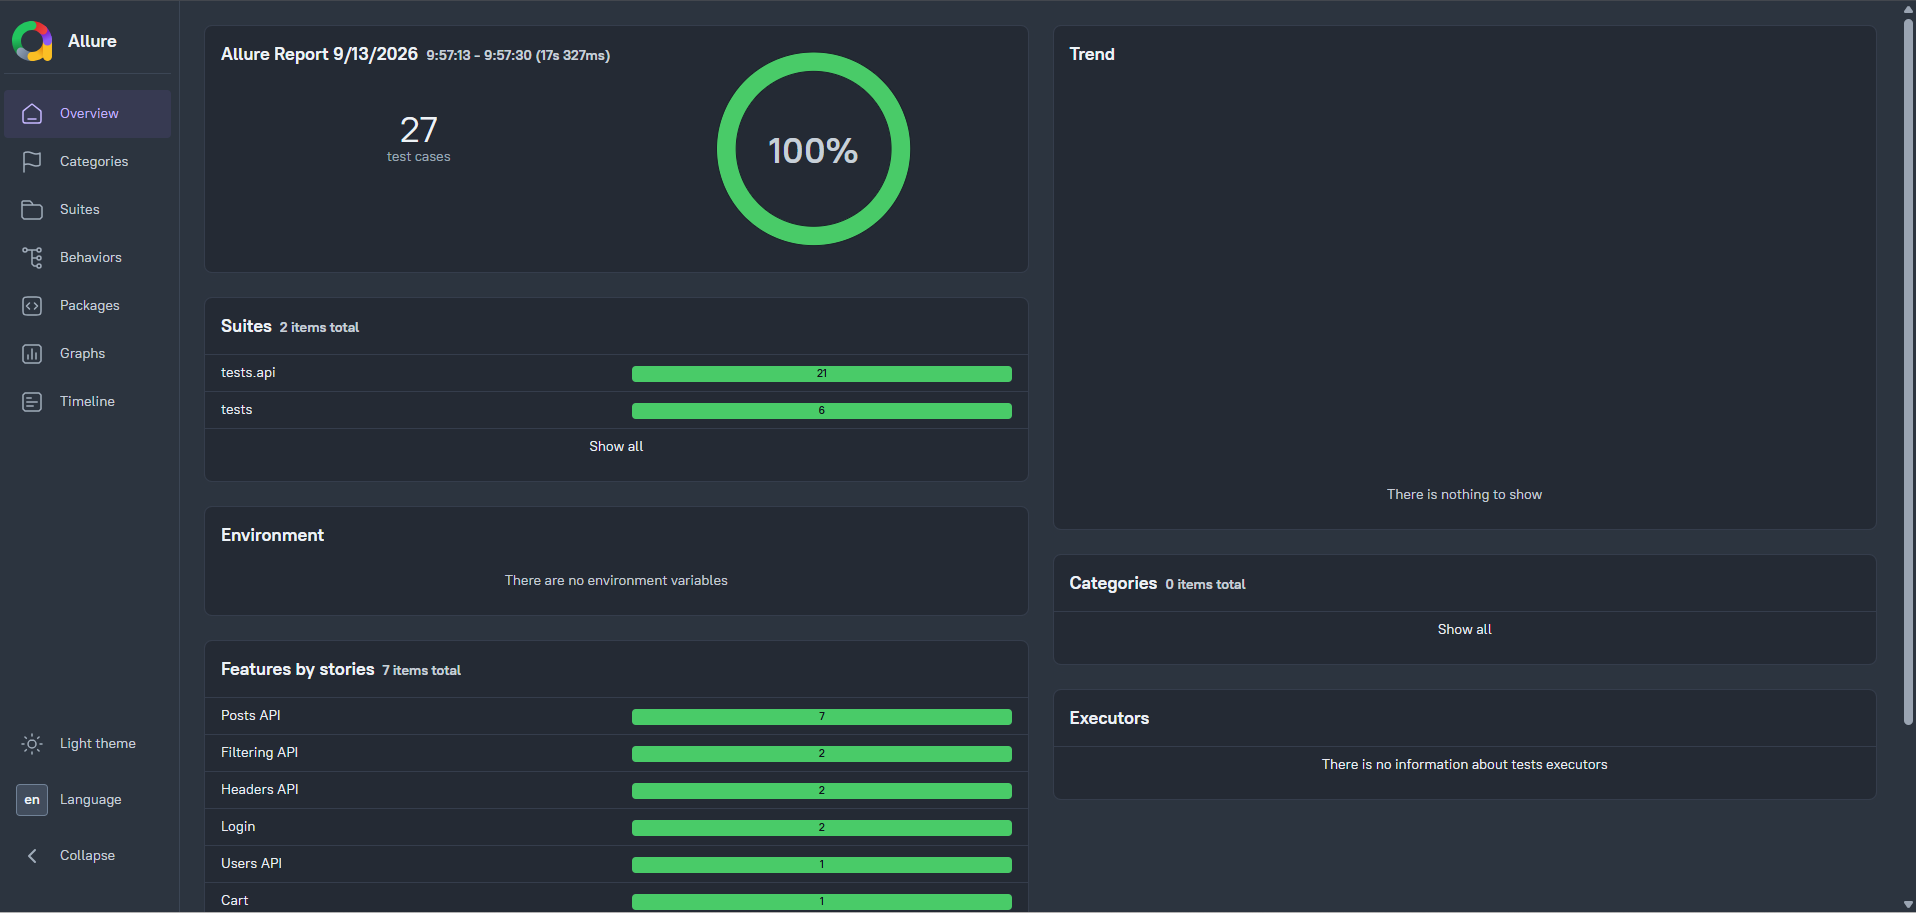
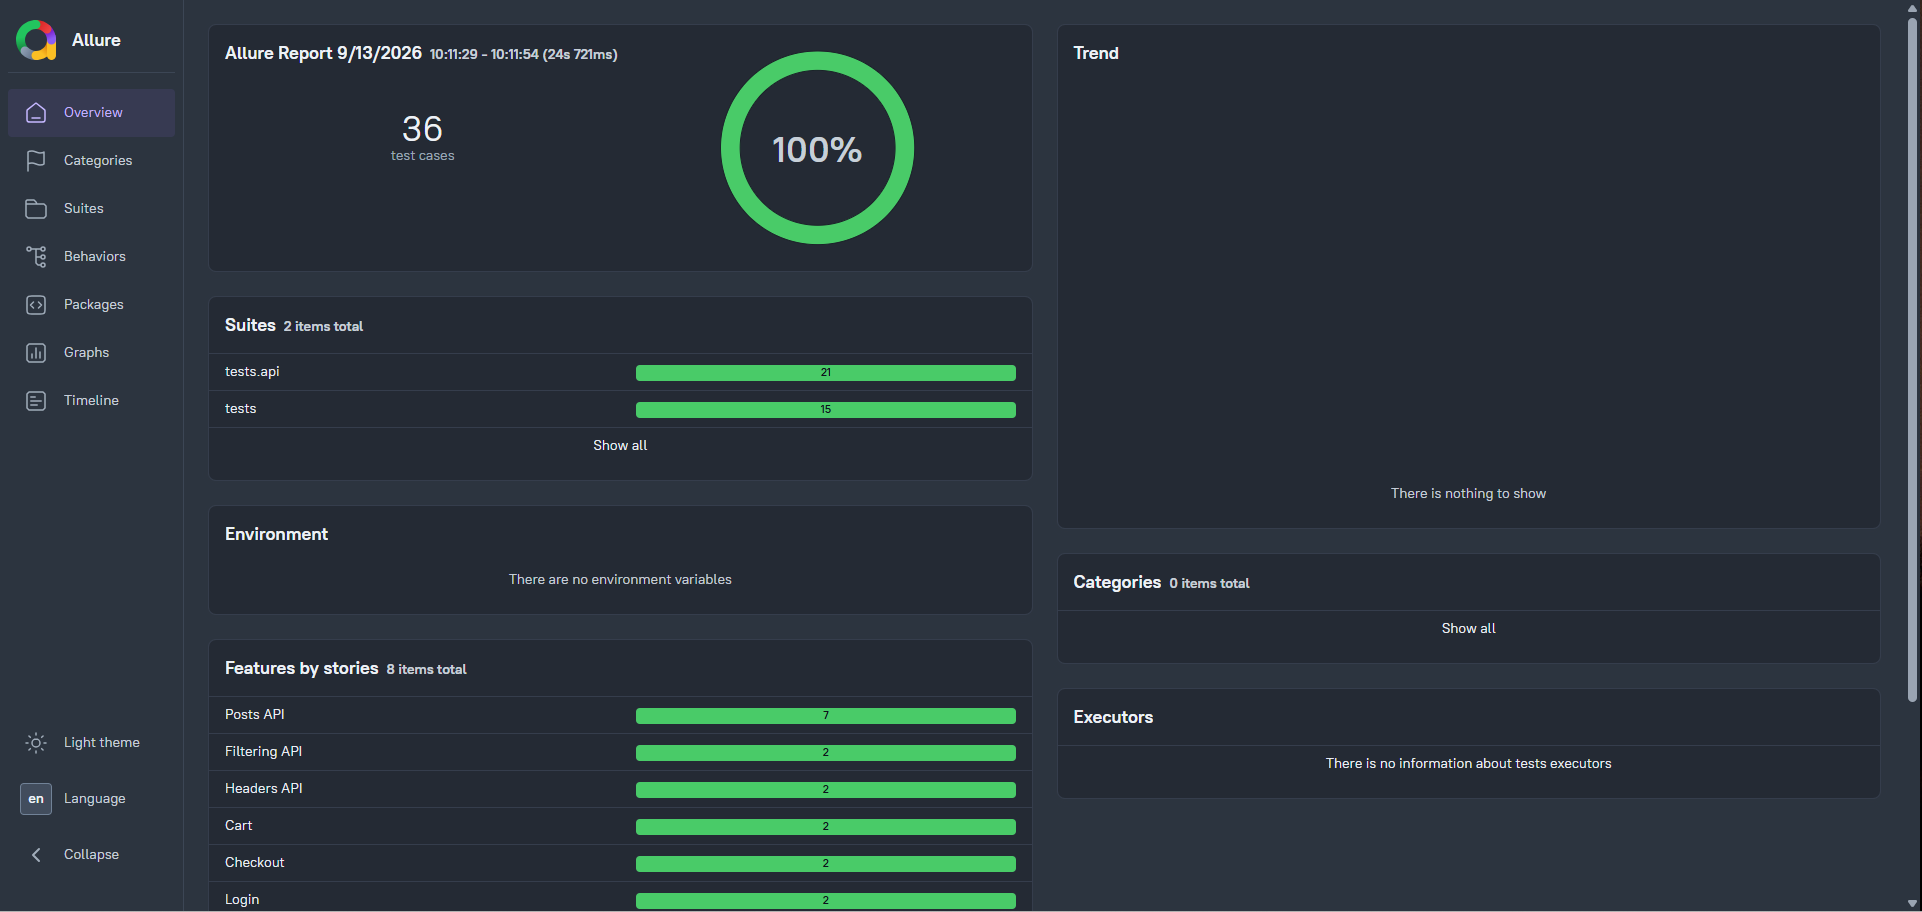
Expand tests: sorting, empty cart, negative checkout, parametrized login

diff --git a/tests/test_checkout_negative.py b/tests/test_checkout_negative.py
@@ -1,0 +1,54 @@
+import allure
+from pages.inventory_page import InventoryPage
+from pages.cart_page import CartPage
+from pages.checkout_page import CheckoutPage
+
+
+def _go_to_checkout(inventory_page: InventoryPage) -> CheckoutPage:
+    """Хелпер: добавляет товар и открывает страницу checkout."""
+    inventory_page.add_to_cart("Sauce Labs Backpack")
+    inventory_page.go_to_cart()
+
+    cart_page = CartPage(inventory_page.page)
+    cart_page.proceed_to_checkout()
+
+    return CheckoutPage(inventory_page.page)
+
+
+@allure.feature("Checkout")
+@allure.story("Negative scenarios")
+@allure.title("Checkout fails when first name is empty")
+@allure.severity(allure.severity_level.NORMAL)
+def test_checkout_without_first_name(inventory_page: InventoryPage):
+    """Ошибка при пустом имени."""
+    checkout_page = _go_to_checkout(inventory_page)
+    checkout_page.fill_customer_info("", "Taran", "123456")
+    checkout_page.continue_to_overview()
+
+    checkout_page.expect_error("Error: First Name is required")
+
+
+@allure.feature("Checkout")
+@allure.story("Negative scenarios")
+@allure.title("Checkout fails when last name is empty")
+@allure.severity(allure.severity_level.NORMAL)
+def test_checkout_without_last_name(inventory_page: InventoryPage):
+    """Ошибка при пустой фамилии."""
+    checkout_page = _go_to_checkout(inventory_page)
+    checkout_page.fill_customer_info("Ivan", "", "123456")
+    checkout_page.continue_to_overview()
+
+    checkout_page.expect_error("Error: Last Name is required")
+
+
+@allure.feature("Checkout")
+@allure.story("Negative scenarios")
+@allure.title("Checkout fails when postal code is empty")
+@allure.severity(allure.severity_level.NORMAL)
+def test_checkout_without_postal_code(inventory_page: InventoryPage):
+    """Ошибка при пустом индексе."""
+    checkout_page = _go_to_checkout(inventory_page)
+    checkout_page.fill_customer_info("Ivan", "Taran", "")
+    checkout_page.continue_to_overview()
+
+    checkout_page.expect_error("Error: Postal Code is required")

diff --git a/tests/test_sorting.py b/tests/test_sorting.py
@@ -1,0 +1,47 @@
+import allure
+from pages.inventory_page import InventoryPage
+
+
+@allure.feature("Sorting")
+@allure.story("Sort by name")
+@allure.title("Sort products A to Z")
+@allure.severity(allure.severity_level.NORMAL)
+def test_sort_by_name_asc(inventory_page: InventoryPage):
+    """Сортировка по имени от A до Z."""
+    inventory_page.sort_by("az")
+    names = inventory_page.get_item_names()
+    assert names == sorted(names)
+
+
+@allure.feature("Sorting")
+@allure.story("Sort by name")
+@allure.title("Sort products Z to A")
+@allure.severity(allure.severity_level.NORMAL)
+def test_sort_by_name_desc(inventory_page: InventoryPage):
+    """Сортировка по имени от Z до A."""
+    inventory_page.sort_by("za")
+    names = inventory_page.get_item_names()
+    assert names == sorted(names, reverse=True)
+
+
+@allure.feature("Sorting")
+@allure.story("Sort by price")
+@allure.title("Sort products by price low to high")
+@allure.severity(allure.severity_level.NORMAL)
+def test_sort_by_price_asc(inventory_page: InventoryPage):
+    """Сортировка по цене от низкой к высокой."""
+    inventory_page.sort_by("lohi")
+    prices = inventory_page.get_item_prices()
+    assert prices == sorted(prices)
+
+
+@allure.feature("Sorting")
+@allure.story("Sort by price")
+@allure.title("Sort products by price high to low")
+@allure.severity(allure.severity_level.NORMAL)
+def test_sort_by_price_desc(inventory_page: InventoryPage):
+    """Сортировка по цене от высокой к низкой."""
+    inventory_page.sort_by("hilo")
+    prices = inventory_page.get_item_prices()
+    assert prices == sorted(prices, reverse=True)
+    

diff --git a/tests/test_login.py b/tests/test_login.py
@@ -1,4 +1,5 @@
 import allure
+import pytest
 from playwright.sync_api import Page, expect
 from config.credentials import STANDARD_USER, LOCKED_OUT_USER, WRONG_PASSWORD_USER
 from pages.login_page import LoginPage
@@ -20,25 +21,16 @@ def test_successful_login(page: Page):
 
 @allure.feature("Login")
 @allure.story("Negative login")
-@allure.title("Locked-out user cannot log in")
+@allure.title("Login fails with invalid credentials")
 @allure.severity(allure.severity_level.NORMAL)
-def test_locked_out_user(page: Page):
-    """Заблокированный пользователь не может войти."""
+@pytest.mark.parametrize("user,expected_error", [
+    (LOCKED_OUT_USER, "Sorry, this user has been locked out"),
+    (WRONG_PASSWORD_USER, "Username and password do not match"),
+])
+def test_login_errors(page: Page, user, expected_error):
+    """Параметризованная проверка ошибок входа."""
     login_page = LoginPage(page)
     login_page.open()
-    login_page.login(LOCKED_OUT_USER["username"], LOCKED_OUT_USER["password"])
+    login_page.login(user["username"], user["password"])
 
-    login_page.expect_error("Sorry, this user has been locked out")
-
-
-@allure.feature("Login")
-@allure.story("Negative login")
-@allure.title("Wrong password shows error message")
-@allure.severity(allure.severity_level.NORMAL)
-def test_wrong_password(page: Page):
-    """Ошибка при неверном пароле."""
-    login_page = LoginPage(page)
-    login_page.open()
-    login_page.login(WRONG_PASSWORD_USER["username"], WRONG_PASSWORD_USER["password"])
-
-    login_page.expect_error("Username and password do not match")
+    login_page.expect_error(expected_error)

diff --git a/pages/inventory_page.py b/pages/inventory_page.py
@@ -13,6 +13,9 @@ class InventoryPage:
         self.title = page.locator(InventoryLocators.TITLE)
         self.cart_badge = page.locator(InventoryLocators.CART_BADGE)
         self.cart_link = page.locator(InventoryLocators.CART_LINK)
+        self.sort_dropdown = page.locator(InventoryLocators.SORT_DROPDOWN)
+        self.item_names = page.locator(InventoryLocators.ITEM_NAME)
+        self.item_prices = page.locator(InventoryLocators.ITEM_PRICE)
 
     def expect_opened(self):
         expect(self.page).to_have_url(self.URL)
@@ -27,3 +30,24 @@ class InventoryPage:
 
     def go_to_cart(self):
         self.cart_link.click()
+
+    # --- Sorting ---
+
+    def sort_by(self, option: str):
+        """Сортировка: 'az', 'za', 'lohi', 'hilo'."""
+        self.sort_dropdown.select_option(option)
+
+    def get_item_names(self) -> list[str]:
+        return self.item_names.all_inner_texts()
+
+    def get_item_prices(self) -> list[float]:
+        prices = self.item_prices.all_inner_texts()
+        return [float(p.replace("$", "")) for p in prices]
+
+    # --- Reset state ---
+
+    def reset_app_state(self):
+        """Сброс состояния через меню."""
+        self.page.locator("#react-burger-menu-btn").click()
+        self.page.locator("#reset_sidebar_link").click()
+    

diff --git a/tests/test_cart_empty.py b/tests/test_cart_empty.py
@@ -1,0 +1,26 @@
+import allure
+from pages.inventory_page import InventoryPage
+from pages.cart_page import CartPage
+
+
+@allure.feature("Cart")
+@allure.story("Empty cart")
+@allure.title("Cart is empty by default")
+@allure.severity(allure.severity_level.NORMAL)
+def test_cart_is_empty_by_default(inventory_page: InventoryPage):
+    """Корзина пуста по умолчанию."""
+    inventory_page.go_to_cart()
+
+    cart_page = CartPage(inventory_page.page)
+    cart_page.expect_opened()
+    cart_page.expect_items_count(0)
+
+
+@allure.feature("Cart")
+@allure.story("Empty cart")
+@allure.title("Empty cart has no badge")
+@allure.severity(allure.severity_level.MINOR)
+def test_empty_cart_has_no_badge(inventory_page: InventoryPage):
+    """При пустой корзине счётчик отсутствует."""
+    from playwright.sync_api import expect
+    expect(inventory_page.cart_badge).not_to_be_visible()

diff --git a/pages/checkout_page.py b/pages/checkout_page.py
@@ -13,6 +13,7 @@ class CheckoutPage:
         self.continue_button = page.locator(CheckoutLocators.CONTINUE_BUTTON)
         self.finish_button = page.locator(CheckoutLocators.FINISH_BUTTON)
         self.complete_header = page.locator(CheckoutLocators.COMPLETE_HEADER)
+        self.error_message = page.locator(CheckoutLocators.ERROR_MESSAGE)
 
     def fill_customer_info(self, first_name: str, last_name: str, postal_code: str):
         self.first_name.fill(first_name)
@@ -27,3 +28,7 @@ class CheckoutPage:
 
     def expect_order_complete(self):
         expect(self.complete_header).to_have_text("Thank you for your order!")
+
+    def expect_error(self, text: str):
+        expect(self.error_message).to_be_visible()
+        expect(self.error_message).to_contain_text(text)

diff --git a/locators/inventory_locators.py b/locators/inventory_locators.py
@@ -5,3 +5,6 @@ class InventoryLocators:
     CART_LINK = ".shopping_cart_link"
     INVENTORY_ITEM = ".inventory_item"
     ITEM_BUTTON = "button"
+    SORT_DROPDOWN = "[data-test='product-sort-container']"
+    ITEM_NAME = ".inventory_item_name"
+    ITEM_PRICE = ".inventory_item_price"

diff --git a/locators/checkout_locators.py b/locators/checkout_locators.py
@@ -6,3 +6,5 @@ class CheckoutLocators:
     CONTINUE_BUTTON = "#continue"
     FINISH_BUTTON = "#finish"
     COMPLETE_HEADER = ".complete-header"
+    ERROR_MESSAGE = "[data-test='error']"
+
